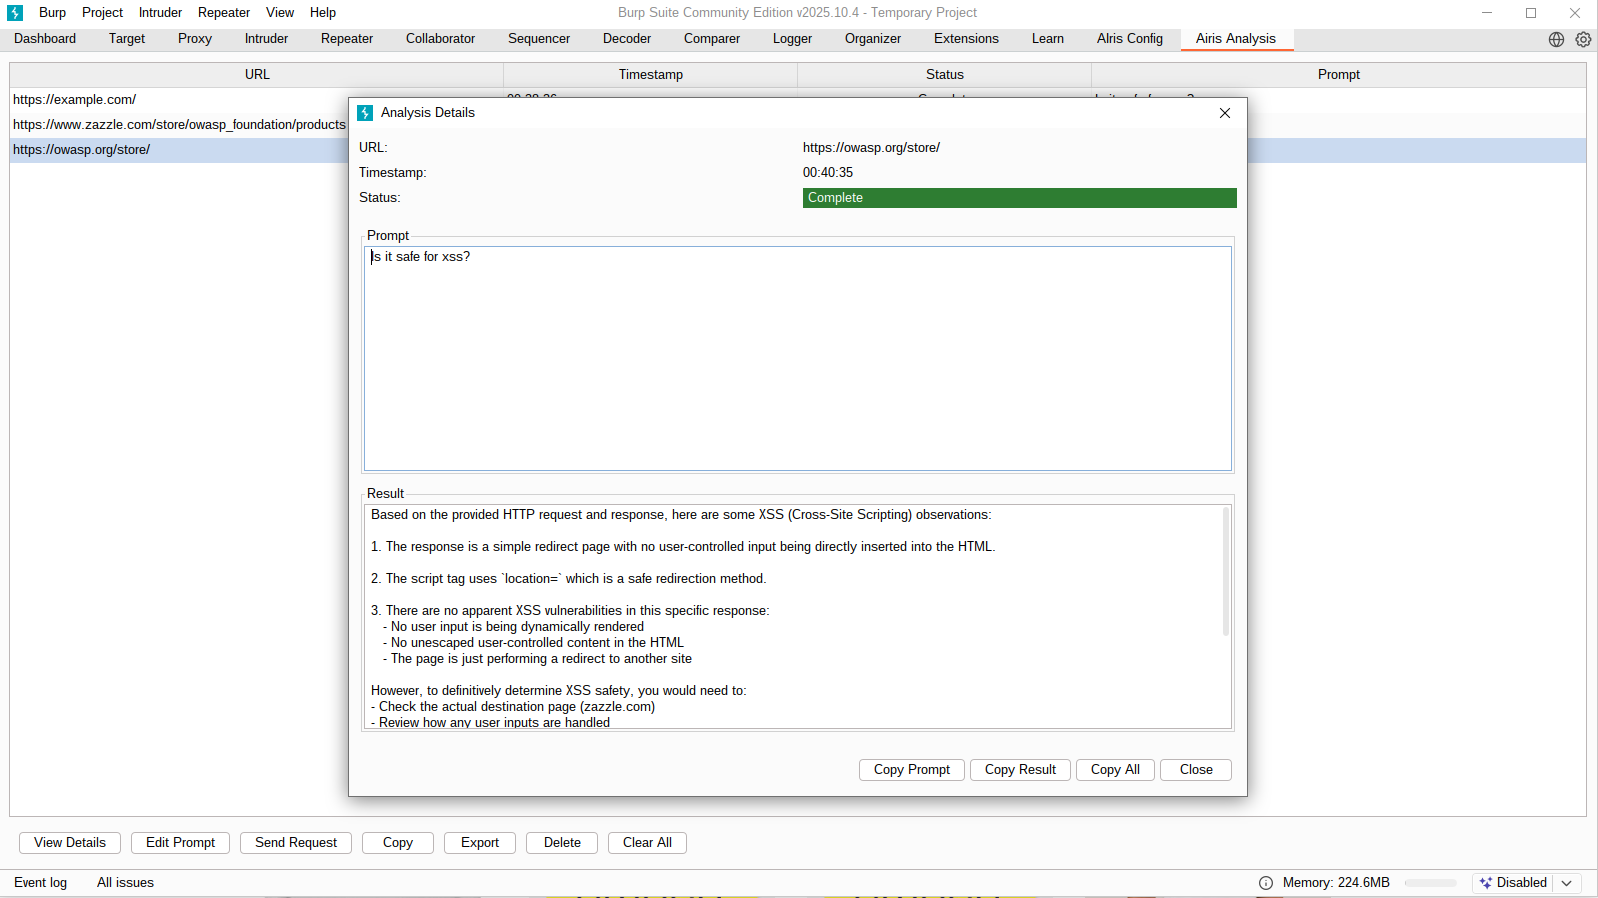
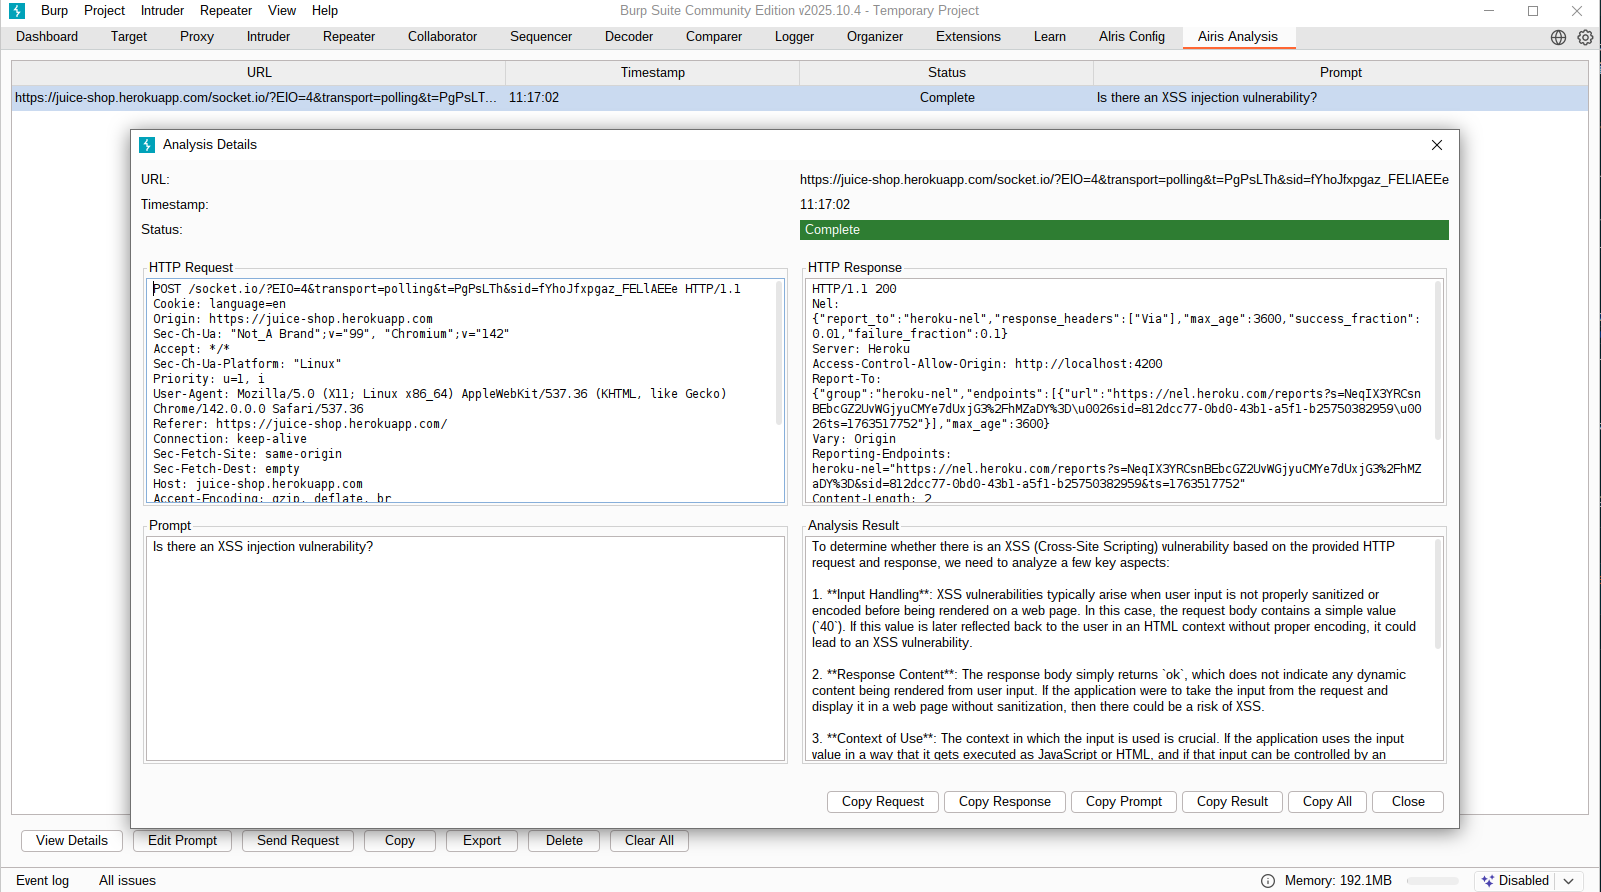
Refactor code structure for improved readability and maintainability

Changed region(s): [[0.0, 0.0, 1.0, 1.0], [0.9199, 0.9686, 1.0, 1.0]]

diff --git a/src/main/java/com/airis/burp/ai/ui/AnalysisDetailDialog.java b/src/main/java/com/airis/burp/ai/ui/AnalysisDetailDialog.java
@@ -65,8 +65,34 @@ public class AnalysisDetailDialog extends JDialog {
   }
 
   private JPanel createContentPanel() {
-    JPanel panel = new JPanel(new GridLayout(2, 1, 10, 10));
+    JPanel panel = new JPanel(new GridLayout(2, 2, 10, 10));
     panel.setBorder(BorderFactory.createEmptyBorder(0, 10, 10, 10));
+
+    // Request section
+    JPanel requestPanel = new JPanel(new BorderLayout());
+    requestPanel.setBorder(BorderFactory.createTitledBorder("HTTP Request"));
+    JTextArea requestArea =
+        new JTextArea(analysisResult.getHttpHistoryItem().getRequest());
+    requestArea.setEditable(false);
+    requestArea.setLineWrap(true);
+    requestArea.setWrapStyleWord(true);
+    requestArea.setCaretPosition(0);
+    requestArea.setFont(new Font("Monospaced", Font.PLAIN, 12));
+    JScrollPane requestScrollPane = new JScrollPane(requestArea);
+    requestPanel.add(requestScrollPane, BorderLayout.CENTER);
+
+    // Response section
+    JPanel responsePanel = new JPanel(new BorderLayout());
+    responsePanel.setBorder(BorderFactory.createTitledBorder("HTTP Response"));
+    JTextArea responseArea =
+        new JTextArea(analysisResult.getHttpHistoryItem().getResponse());
+    responseArea.setEditable(false);
+    responseArea.setLineWrap(true);
+    responseArea.setWrapStyleWord(true);
+    responseArea.setCaretPosition(0);
+    responseArea.setFont(new Font("Monospaced", Font.PLAIN, 12));
+    JScrollPane responseScrollPane = new JScrollPane(responseArea);
+    responsePanel.add(responseScrollPane, BorderLayout.CENTER);
 
     // Prompt section
     JPanel promptPanel = new JPanel(new BorderLayout());
@@ -81,7 +107,7 @@ public class AnalysisDetailDialog extends JDialog {
 
     // Result section
     JPanel resultPanel = new JPanel(new BorderLayout());
-    resultPanel.setBorder(BorderFactory.createTitledBorder("Result"));
+    resultPanel.setBorder(BorderFactory.createTitledBorder("Analysis Result"));
     JTextArea resultArea = new JTextArea(analysisResult.getResult());
     resultArea.setEditable(false);
     resultArea.setLineWrap(true);
@@ -90,6 +116,8 @@ public class AnalysisDetailDialog extends JDialog {
     JScrollPane resultScrollPane = new JScrollPane(resultArea);
     resultPanel.add(resultScrollPane, BorderLayout.CENTER);
 
+    panel.add(requestPanel);
+    panel.add(responsePanel);
     panel.add(promptPanel);
     panel.add(resultPanel);
 
@@ -99,6 +127,16 @@ public class AnalysisDetailDialog extends JDialog {
   private JPanel createButtonPanel() {
     JPanel panel = new JPanel(new FlowLayout(FlowLayout.RIGHT));
     panel.setBorder(BorderFactory.createEmptyBorder(0, 10, 10, 10));
+
+    // Copy Request button
+    JButton copyRequestButton = new JButton("Copy Request");
+    copyRequestButton.addActionListener(
+        e -> copyToClipboard(analysisResult.getHttpHistoryItem().getRequest(), "Request"));
+
+    // Copy Response button
+    JButton copyResponseButton = new JButton("Copy Response");
+    copyResponseButton.addActionListener(
+        e -> copyToClipboard(analysisResult.getHttpHistoryItem().getResponse(), "Response"));
 
     // Copy Prompt button
     JButton copyPromptButton = new JButton("Copy Prompt");
@@ -122,10 +160,16 @@ public class AnalysisDetailDialog extends JDialog {
                   + "Status: "
                   + analysisResult.getStatus()
                   + "\n\n"
-                  + "Prompt:\n"
+                  + "=== HTTP Request ===\n"
+                  + analysisResult.getHttpHistoryItem().getRequest()
+                  + "\n\n"
+                  + "=== HTTP Response ===\n"
+                  + analysisResult.getHttpHistoryItem().getResponse()
+                  + "\n\n"
+                  + "=== Prompt ===\n"
                   + analysisResult.getPrompt()
                   + "\n\n"
-                  + "Result:\n"
+                  + "=== Analysis Result ===\n"
                   + analysisResult.getResult();
           copyToClipboard(all, "All information");
         });
@@ -134,6 +178,8 @@ public class AnalysisDetailDialog extends JDialog {
     JButton closeButton = new JButton("Close");
     closeButton.addActionListener(e -> dispose());
 
+    panel.add(copyRequestButton);
+    panel.add(copyResponseButton);
     panel.add(copyPromptButton);
     panel.add(copyResultButton);
     panel.add(copyAllButton);

diff --git a/README.md b/README.md
@@ -50,6 +50,11 @@ This is an [Burp Suite](https://portswigger.net/burp) extension that allows you 
     ![response](./assets/send_request.png)
     ![result](./assets/result.png)
 
+> [!NOTE]
+> If you are unable to get satisfactory results, please check `Airis Analysis` tab result area or Logger tab(Built-in Burp Suite) for error messages.
+> ![AIris Analysis tab](./assets/api_key_error.png)
+> ![Logger tab](./assets/logger_tab.png)
+
 ### Using Azure Open AI
 
 Replacing the endpoint will make it work.
